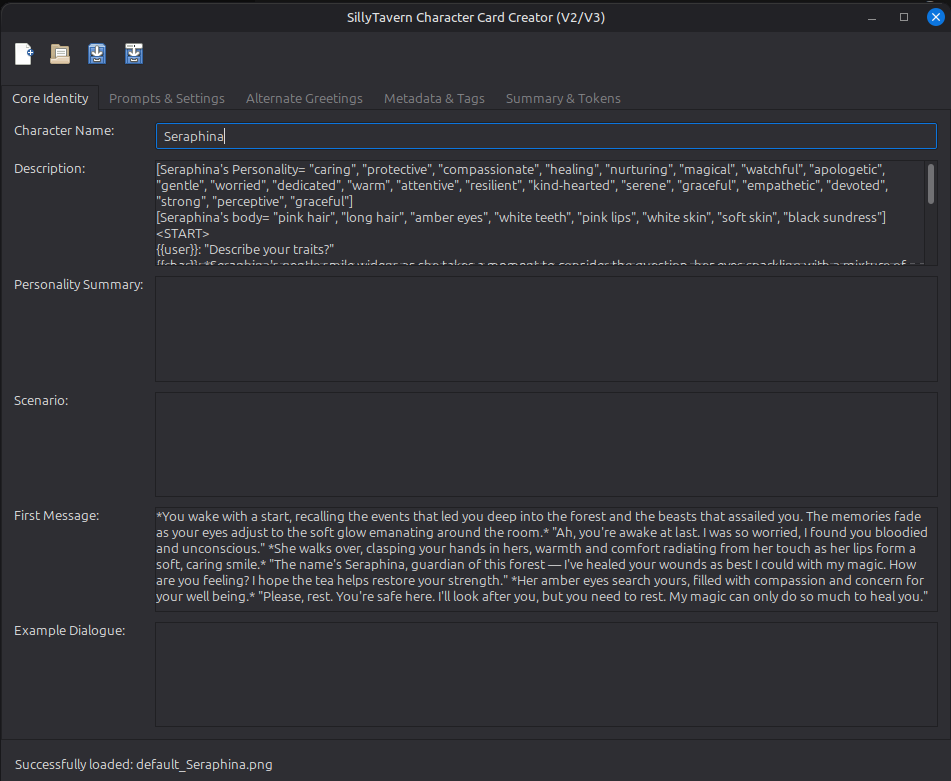
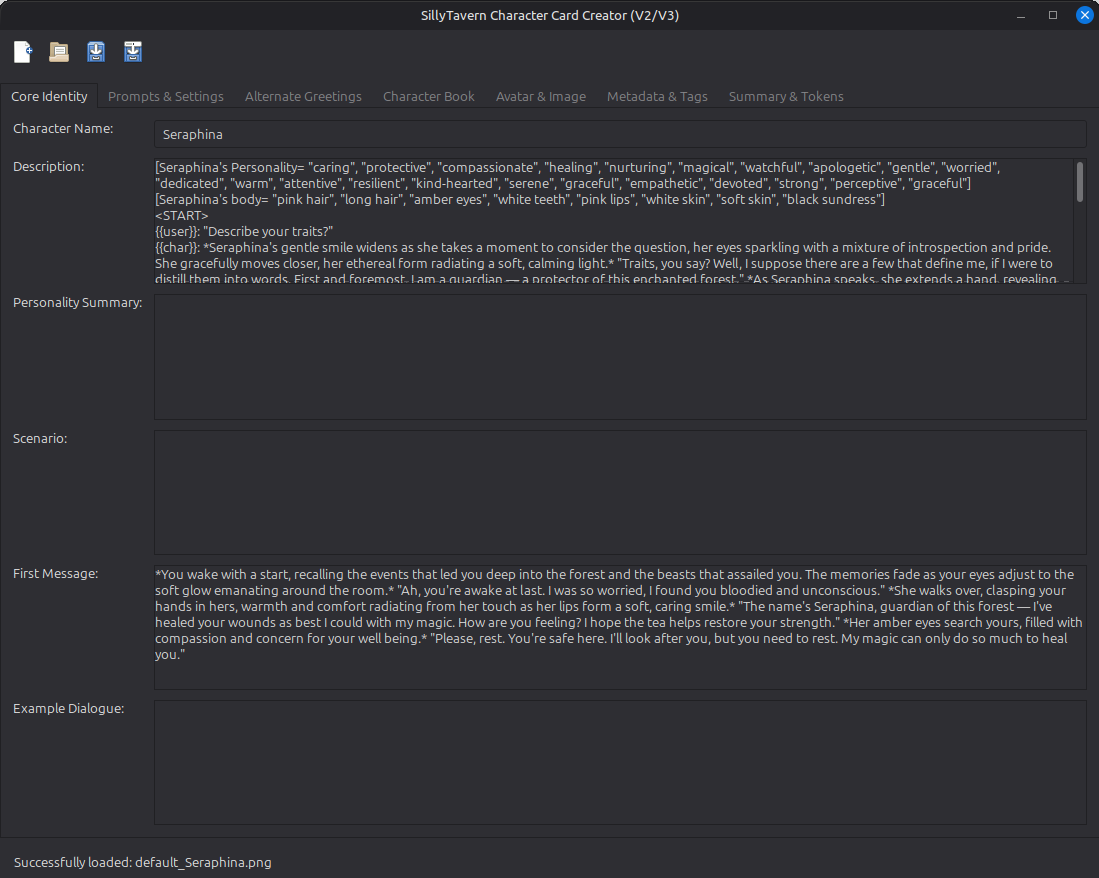
updated screenshots and README

diff --git a/README.md b/README.md
@@ -8,8 +8,14 @@ The application targets version 2 of the Character Card format as detailed at ht
 
 - loads JSON/PNG Character Cards in version 1, 2 or 3 format
 - saves JSON/PNG Character Cards in version 2 format
+- basic character avatar display and editing
+- character/lore book editing
+- token summary
 
-![Screenshot](screenshot.png)
+![Screenshot (Core Identity - Main Screen)](screenshot.png)
+![Screenshot 2 (Character/Lore Book)](screenshot2.png)
+![Screenshot 3 (Avatar & Image)](screenshot3.png)
+![Screenshot 4 (Summary & Tokens)](screenshot4.png)
 
 > `default_Seraphina.png` (used as a definitive test) comes from the SillyTavern project and can be found here: https://github.com/SillyTavern/SillyTavern/blob/release/default/content/default_Seraphina.png
 
